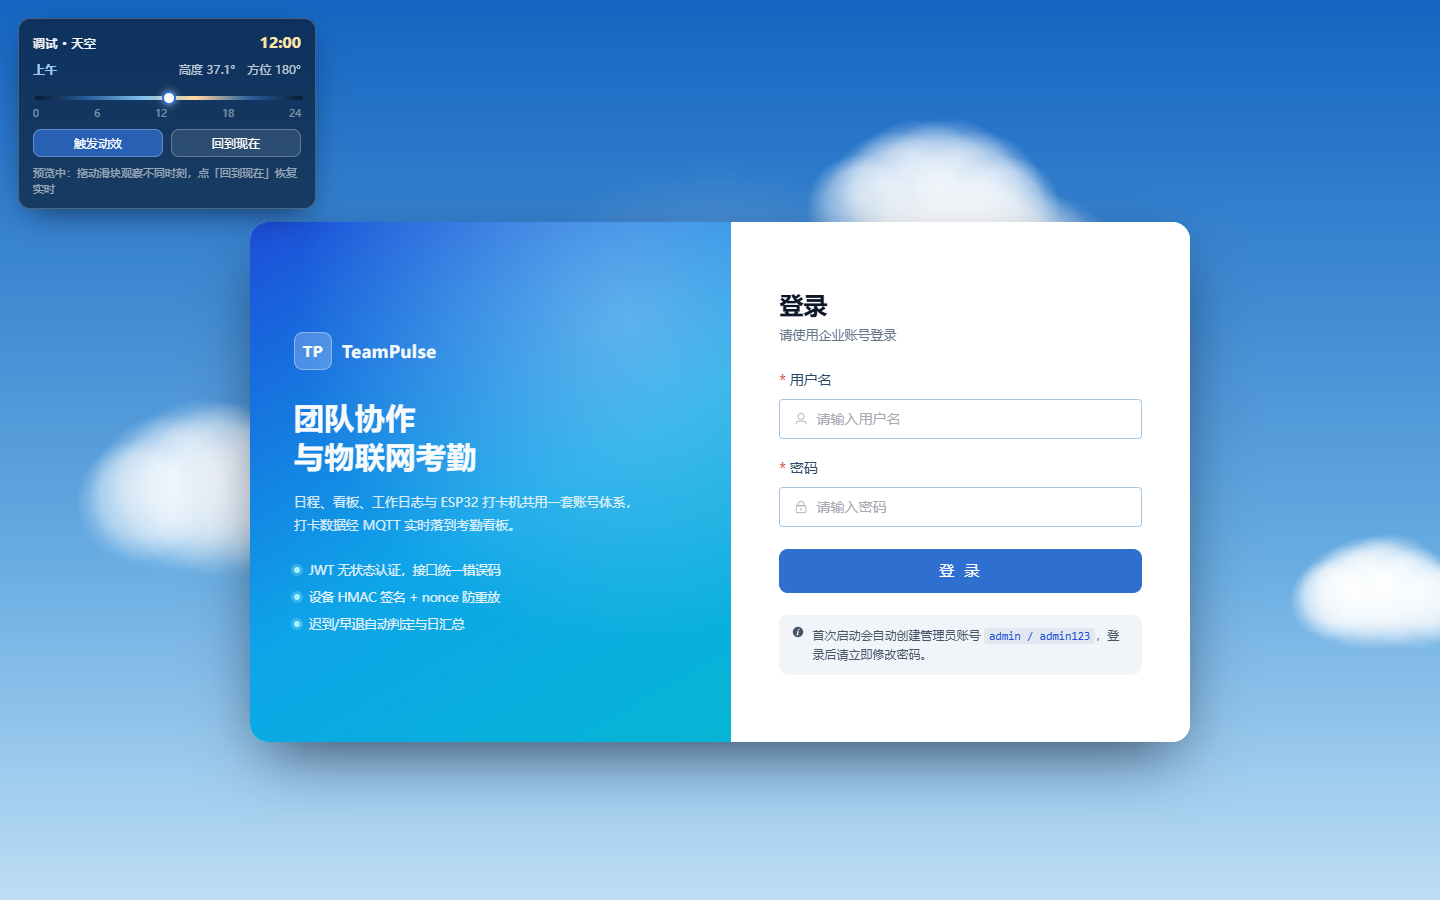
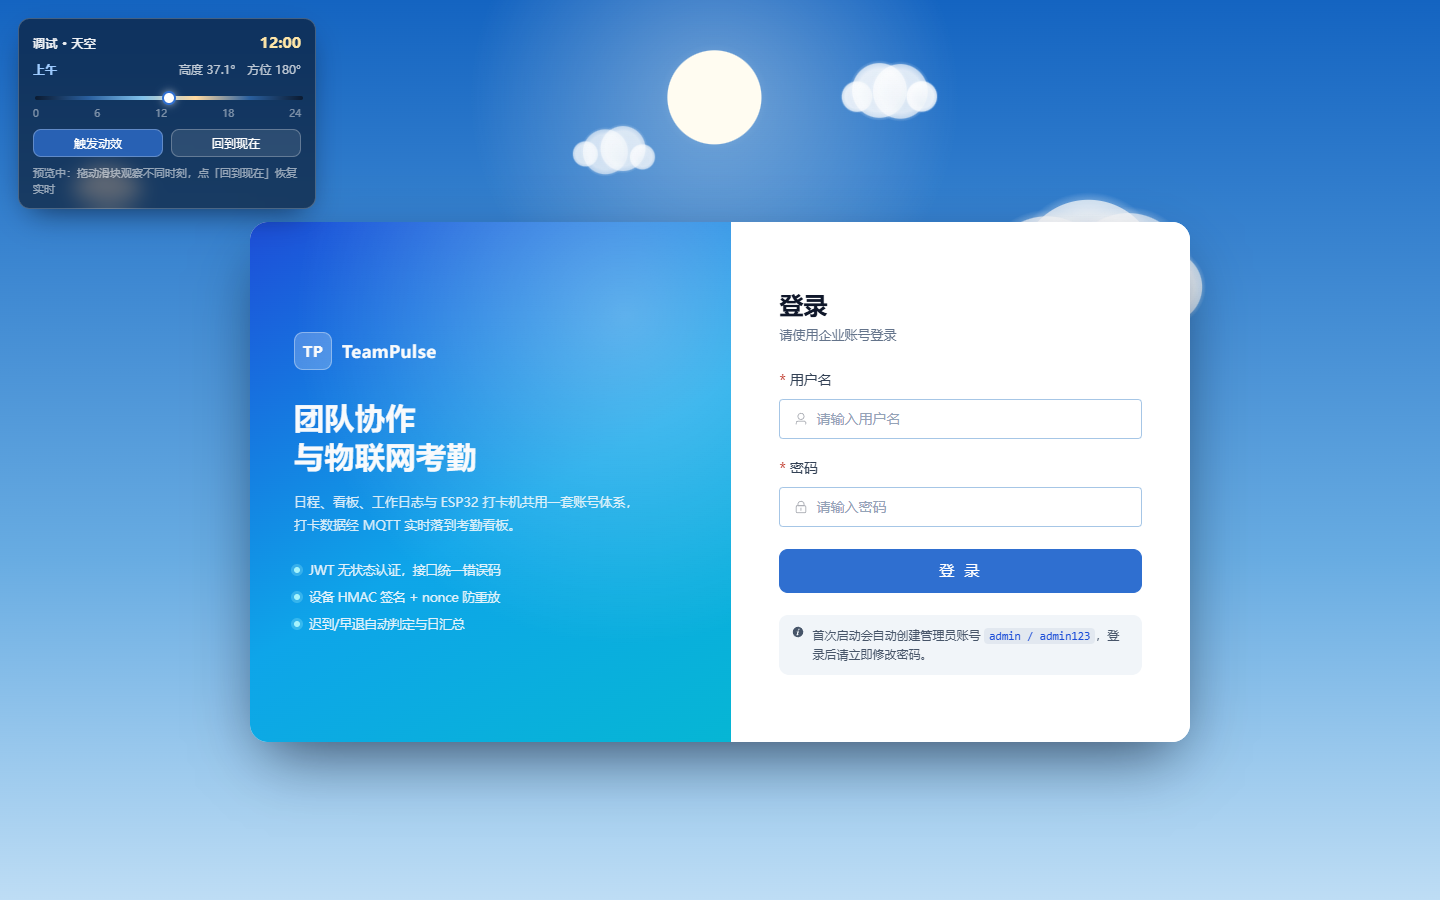
fix(login): 输入框定回亮色；云朵改成可辨的实心云泡；太阳抬高不再被卡片挡住
## 1. 输入框颜色
登录卡片是固定亮色，但全局暗色主题里有
`html.dark .el-input__wrapper { background:#131a22 }`，把卡片里的输入框染黑，
看起来又变成"只有输入框换了色"。在 Login.vue 里用更高的选择器权重固定：
    输入框底 #ffffff / 文字 #0f172a / placeholder #94a3b8 / 标签 #334155
实测计算样式：wrapperBg rgb(255,255,255)，text rgb(15,23,42) ✓

## 2. 云朵（原来像一团雾）
根因：整团云只用大半径径向渐变铺满，渐变从中心一路淡出到边缘，没有轮廓。
改为「实心云泡 + 柔边」：
- 每个 puff 先画一个 0.9r 的实心白圆（互不重叠成雾，而是一个个可辨的鼓包）
- 再叠一圈 0.78r → r 的柔边，轮廓清晰但不生硬
- 底部加一点冷色（rgba(190,210,230)）给体积感，但整体透明度保持
- 云的尺度分三档：22–40 / 44–78 / 84–138（"有的地方大有的地方小"）
- 中间大、两侧小（cos 曲线），泡间距 2.05×base，相邻鼓包不会被完全盖住
- 层透明度 0.62–0.88，每个泡再乘自身系数，保留通透感

## 3. 太阳位置
原来按 70° 归一，中午（本季节 37°）落在 y≈380，正好被中间的登录卡片挡住。
改为 42° 即天顶、纵向系数 0.92：
    12:00 高度 37.1° → 太阳 (714, 97)，卡片顶边 222 → 完全露在卡片上方 ✓
    8:00 → (1343, 526)、9:00 → (1255, 344)、15:00 → (180, 353)、17:00 → (41, 798)
    五个时刻实测均"没被卡片挡住"

## 验证
    tests/ui/probe-sky2.mjs：输入框颜色、云可见度、五个时刻的太阳是否被遮挡
    控制台无报错

diff --git a/frontend/src/components/LoginSky.vue b/frontend/src/components/LoginSky.vue
@@ -98,27 +98,40 @@ function makeStar() {
 }
 
 function makeCloud() {
+  // 云的尺度分三档，避免所有云一样大
+  const tier = Math.random()
+  const base = tier < 0.34 ? rand(22, 40) : tier < 0.74 ? rand(44, 78) : rand(84, 138)
   const hx = rand(0, width)
-  const hy = rand(height * 0.06, height * 0.7)
-  const base = rand(56, 108)
+  // 主要分布在上半部与两侧，避开被中间卡片挡住的位置
+  const hy = rand(height * 0.05, height * 0.46)
+
+  const n = tier < 0.34 ? 4 : tier < 0.74 ? 5 : 7
   const puffs = []
-  const n = 6
   for (let i = 0; i < n; i++) {
-    const t = i / (n - 1) - 0.5
-    const r = base * (0.62 + 0.42 * Math.cos(t * Math.PI * 0.85))
-    puffs.push({ dx: t * base * 1.85 + rand(-5, 5), dy: -r * 0.55 + rand(-3, 3), r })
+    const t = i / (n - 1) - 0.5 // -0.5 .. 0.5
+    // 中间大、两侧小：这是积云最典型的轮廓
+    const k = 0.45 + 0.55 * Math.cos(t * Math.PI * 0.92)
+    const r = base * k
+    puffs.push({
+      dx: t * base * 2.05 + rand(-2, 2),
+      // 圆心高于基线，底边大致齐平
+      dy: -r * 0.5 + rand(-2, 2),
+      r,
+      // 每团云自己的透明度略有差别，叠起来才有体积感
+      a: rand(0.82, 1),
+    })
   }
+
   return {
     hx,
     hy,
-    rx: rand(120, 260),
-    ry: rand(40, 90),
+    rx: rand(70, 200),
+    ry: rand(24, 70),
     x: hx,
     y: hy,
-    vx: rand(-0.03, 0.03),
-    vy: rand(-0.015, 0.015),
-    alpha: rand(0.5, 0.85),
-    gather: 1,
+    vx: rand(-0.02, 0.02),
+    vy: rand(-0.008, 0.008),
+    alpha: rand(0.62, 0.88),
     puffs,
   }
 }
@@ -129,7 +142,7 @@ function buildStars() {
 }
 
 function buildClouds() {
-  const n = Math.max(4, Math.min(8, Math.round(width / 300)))
+  const n = Math.max(4, Math.min(7, Math.round(width / 340)))
   clouds = Array.from({ length: n }, makeCloud)
 }
 
@@ -165,8 +178,10 @@ function refreshSky() {
 
   // 屏幕坐标：方位角 → 横向（东右西左），高度角 → 纵向
   sunX = azimuthToX(azimuth, true) * width
-  const altNorm = clamp01(altitude / 70)
-  sunY = height * 0.94 - Math.pow(altNorm, 0.85) * height * 0.86
+  // 45° 以上按天顶处理：这样正午（本季节约 37°）时太阳能升到卡片上方，
+  // 不会被中间的登录卡片挡住；低太阳时方位角偏东西，本来就落在左右留白里
+  const altNorm = clamp01(altitude / 42)
+  sunY = height * 0.94 - Math.pow(altNorm, 0.75) * height * 0.92
   sunR = Math.max(26, Math.min(56, width * 0.032)) * (1 + (1 - altNorm) * 0.18)
 
   // 调试信息
@@ -396,28 +411,48 @@ function drawStars() {
 
 function drawClouds() {
   if (cloudsVisible <= 0.01) return
-  // 低太阳时把云染上一点暖色
   const warm = clamp01((12 - sunAlt) / 14)
-  const tint = warm > 0.35 ? `rgba(255, 214, 170, ${warm * 0.55})` : null
+  const warmColor = warm > 0.3 ? `rgba(255, 214, 170, ${warm * 0.35})` : null
 
   for (const c of clouds) {
     const a = c.alpha * cloudsVisible
     if (a <= 0.01) continue
+
     for (const p of c.puffs) {
       const px = c.x + p.dx
       const py = c.y + p.dy
-      const g = ctx.createRadialGradient(px, py - p.r * 0.25, 0, px, py, p.r)
-      g.addColorStop(0, `rgba(255,255,255,${a})`)
-      g.addColorStop(0.62, `rgba(255,255,255,${a * 0.7})`)
+      const pa = a * p.a
+      const core = p.r * 0.9
+
+      // ① 实心云泡：这是"有的地方大有的地方小"的关键——每团都是独立可辨的圆
+      ctx.globalAlpha = pa
+      ctx.fillStyle = '#ffffff'
+      ctx.beginPath()
+      ctx.arc(px, py, core, 0, Math.PI * 2)
+      ctx.fill()
+      ctx.globalAlpha = 1
+
+      // ② 柔边：只在最外圈淡出，轮廓仍然清晰
+      const g = ctx.createRadialGradient(px, py, core * 0.78, px, py, p.r)
+      g.addColorStop(0, `rgba(255,255,255,${pa})`)
       g.addColorStop(1, 'rgba(255,255,255,0)')
       ctx.fillStyle = g
       ctx.beginPath()
       ctx.arc(px, py, p.r, 0, Math.PI * 2)
       ctx.fill()
 
-      if (tint) {
-        const gt = ctx.createRadialGradient(px, py + p.r * 0.35, 0, px, py, p.r)
-        gt.addColorStop(0, tint)
+      // ③ 底部一点冷色，给云体积感（不整体加暗，保持通透）
+      const gs = ctx.createRadialGradient(px, py + core * 0.5, 0, px, py + core * 0.1, core)
+      gs.addColorStop(0, `rgba(190, 210, 230, ${pa * 0.35})`)
+      gs.addColorStop(1, 'rgba(190, 210, 230, 0)')
+      ctx.fillStyle = gs
+      ctx.beginPath()
+      ctx.arc(px, py + core * 0.2, core, 0, Math.PI * 2)
+      ctx.fill()
+
+      if (warmColor) {
+        const gt = ctx.createRadialGradient(px, py + core * 0.6, 0, px, py, p.r)
+        gt.addColorStop(0, warmColor)
         gt.addColorStop(1, 'rgba(255,214,170,0)')
         ctx.fillStyle = gt
         ctx.beginPath()

diff --git a/frontend/src/views/Login.vue b/frontend/src/views/Login.vue
@@ -265,6 +265,37 @@ async function handleLogin() {
   background: transparent;
   box-shadow: none;
 }
+/*
+  登录页的卡片固定亮色（天空负责氛围）。但全局暗色主题里有
+  `html.dark .el-input__wrapper { background:#131a22 }` 这类规则，
+  会把卡片里的输入框染黑，看起来像"只有输入框变了色"。
+  这里用更高的选择器权重把它固定成亮色。
+*/
+.form-card :deep(.el-input__wrapper) {
+  background-color: #ffffff;
+  box-shadow: 0 0 0 1px #c4d9f1 inset;
+}
+
+.form-card :deep(.el-input__wrapper:hover) {
+  box-shadow: 0 0 0 1px #a9c9ec inset;
+}
+
+.form-card :deep(.el-input__wrapper.is-focus) {
+  box-shadow: 0 0 0 1px var(--tp-primary) inset;
+}
+
+.form-card :deep(.el-input__inner) {
+  color: #0f172a;
+}
+
+.form-card :deep(.el-input__inner::placeholder) {
+  color: #94a3b8;
+}
+
+.form-card :deep(.el-form-item__label) {
+  color: #334155;
+}
+
 .form-card :deep(.el-card__body) {
   padding: 0;
 }
